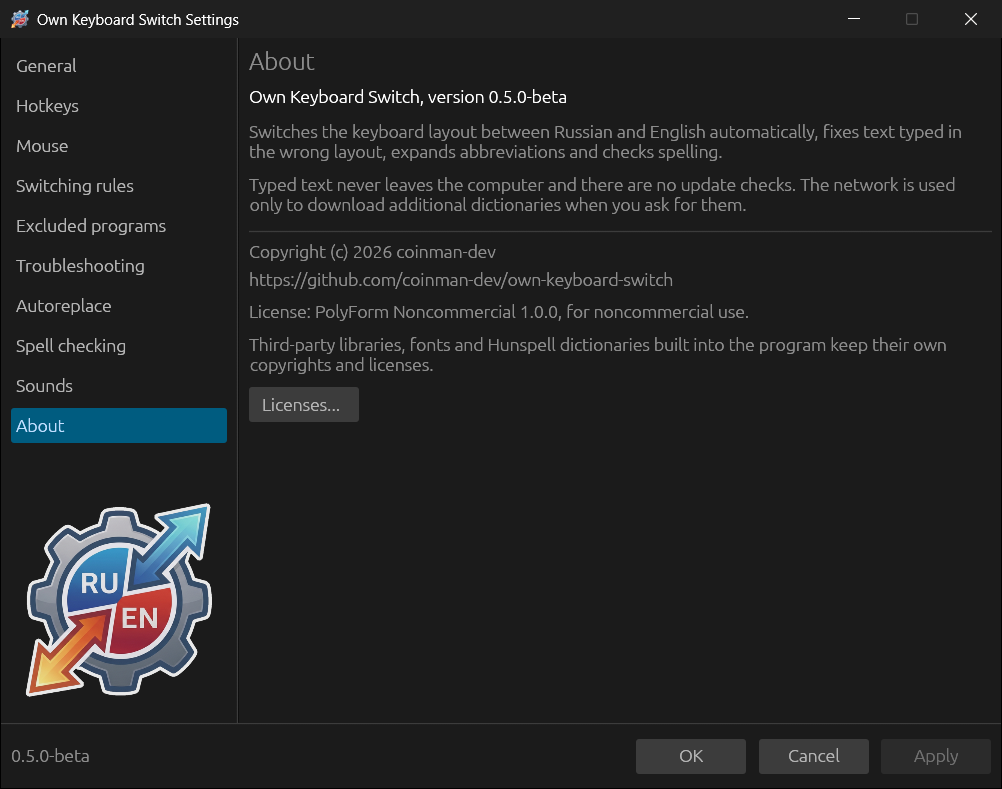
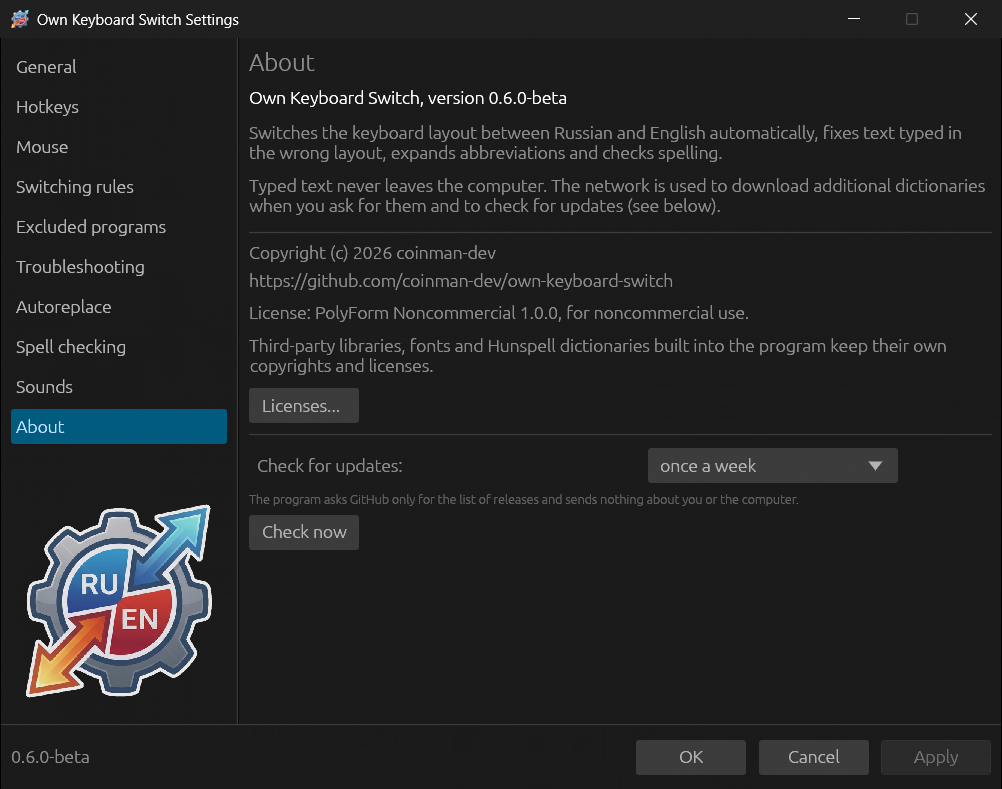
Guide: About screenshot with the update check; preview renderer at any scale
tools/guide-screenshot.sh renders a settings section at the guide's 125%
scale and places it under the existing window frame.

diff --git a/crates/okbs-ui/src/settings_preview.rs b/crates/okbs-ui/src/settings_preview.rs
@@ -1,6 +1,8 @@
 //! Manual visual check without opening a desktop window:
 //! `cargo test -p okbs-ui render_previews -- --ignored`
 //! Images go to `target/settings-preview/`. The PNG encoder is test-only.
+//! `OKBS_PREVIEW_SCALE=1.25` renders at a display scale (the guide's
+//! screenshots use 125%), `OKBS_PREVIEW_SECTION=About` only one section.
 
 use super::*;
 use egui::{ColorImage, ImageData, TextureId};
@@ -30,28 +32,38 @@ fn rasterize(
     ctx: &egui::Context,
     output: egui::FullOutput,
     textures: &HashMap<TextureId, ColorImage>,
+    scale: f32,
 ) -> Vec<u8> {
-    let width = WINDOW_SIZE[0] as usize;
-    let height = WINDOW_SIZE[1] as usize;
+    let width = (WINDOW_SIZE[0] * scale).round() as usize;
+    let height = (WINDOW_SIZE[1] * scale).round() as usize;
     let mut pixels = vec![0u8; width * height * 3];
-    for primitive in ctx.tessellate(output.shapes, 1.0) {
+    for primitive in ctx.tessellate(output.shapes, scale) {
         let egui::epaint::Primitive::Mesh(mesh) = primitive.primitive else {
             continue;
         };
         let texture = &textures[&mesh.texture_id];
+        // Meshes are in points; the image is in physical pixels.
+        let clip_rect = egui::Rect::from_min_max(
+            (primitive.clip_rect.min.to_vec2() * scale).to_pos2(),
+            (primitive.clip_rect.max.to_vec2() * scale).to_pos2(),
+        );
         for indices in mesh.indices.as_chunks::<3>().0 {
             let vertices = [
                 mesh.vertices[indices[0] as usize],
                 mesh.vertices[indices[1] as usize],
                 mesh.vertices[indices[2] as usize],
-            ];
+            ]
+            .map(|mut vertex| {
+                vertex.pos = (vertex.pos.to_vec2() * scale).to_pos2();
+                vertex
+            });
             let [a, b, c] = vertices.map(|v| v.pos);
             let cross = |u: egui::Vec2, v: egui::Vec2| u.x * v.y - u.y * v.x;
             let area = cross(b - a, c - a);
             if area.abs() < 0.0001 {
                 continue;
             }
-            let bounds = egui::Rect::from_points(&[a, b, c]).intersect(primitive.clip_rect);
+            let bounds = egui::Rect::from_points(&[a, b, c]).intersect(clip_rect);
             for y in (bounds.top().floor().max(0.0) as usize)
                 ..(bounds.bottom().ceil().min(height as f32) as usize)
             {
@@ -59,7 +71,7 @@ fn rasterize(
                     ..(bounds.right().ceil().min(width as f32) as usize)
                 {
                     let p = egui::pos2(x as f32 + 0.5, y as f32 + 0.5);
-                    if !primitive.clip_rect.contains(p) {
+                    if !clip_rect.contains(p) {
                         continue;
                     }
                     let weights = [
@@ -102,9 +114,21 @@ fn render_previews() {
     let directory =
         std::path::Path::new(env!("CARGO_MANIFEST_DIR")).join("../../target/settings-preview");
     std::fs::create_dir_all(&directory).expect("preview directory");
+    let scale: f32 = std::env::var("OKBS_PREVIEW_SCALE")
+        .ok()
+        .and_then(|value| value.parse().ok())
+        .unwrap_or(1.0);
+    let only = std::env::var("OKBS_PREVIEW_SECTION").ok();
     for lang in Lang::ALL {
         for section in Section::ALL {
+            if only
+                .as_deref()
+                .is_some_and(|only| only != format!("{section:?}"))
+            {
+                continue;
+            }
             let ctx = egui::Context::default();
+            ctx.set_pixels_per_point(scale);
             configure_context(&ctx);
             ctx.set_theme(egui::ThemePreference::Dark);
             let mut config = Config::default();
@@ -144,15 +168,18 @@ fn render_previews() {
                 );
                 texture_updates(&mut textures, &mut output);
                 if frame == 3 {
-                    let pixels = rasterize(&ctx, output, &textures);
+                    let pixels = rasterize(&ctx, output, &textures, scale);
                     let filename = match lang {
                         Lang::Ru => format!("{section:?}.png"),
                         Lang::En => format!("{section:?}-en.png"),
                     };
                     let file =
                         std::fs::File::create(directory.join(filename)).expect("preview file");
-                    let mut encoder =
-                        png::Encoder::new(file, WINDOW_SIZE[0] as u32, WINDOW_SIZE[1] as u32);
+                    let mut encoder = png::Encoder::new(
+                        file,
+                        (WINDOW_SIZE[0] * scale).round() as u32,
+                        (WINDOW_SIZE[1] * scale).round() as u32,
+                    );
                     encoder.set_color(png::ColorType::Rgb);
                     encoder.set_depth(png::BitDepth::Eight);
                     encoder
